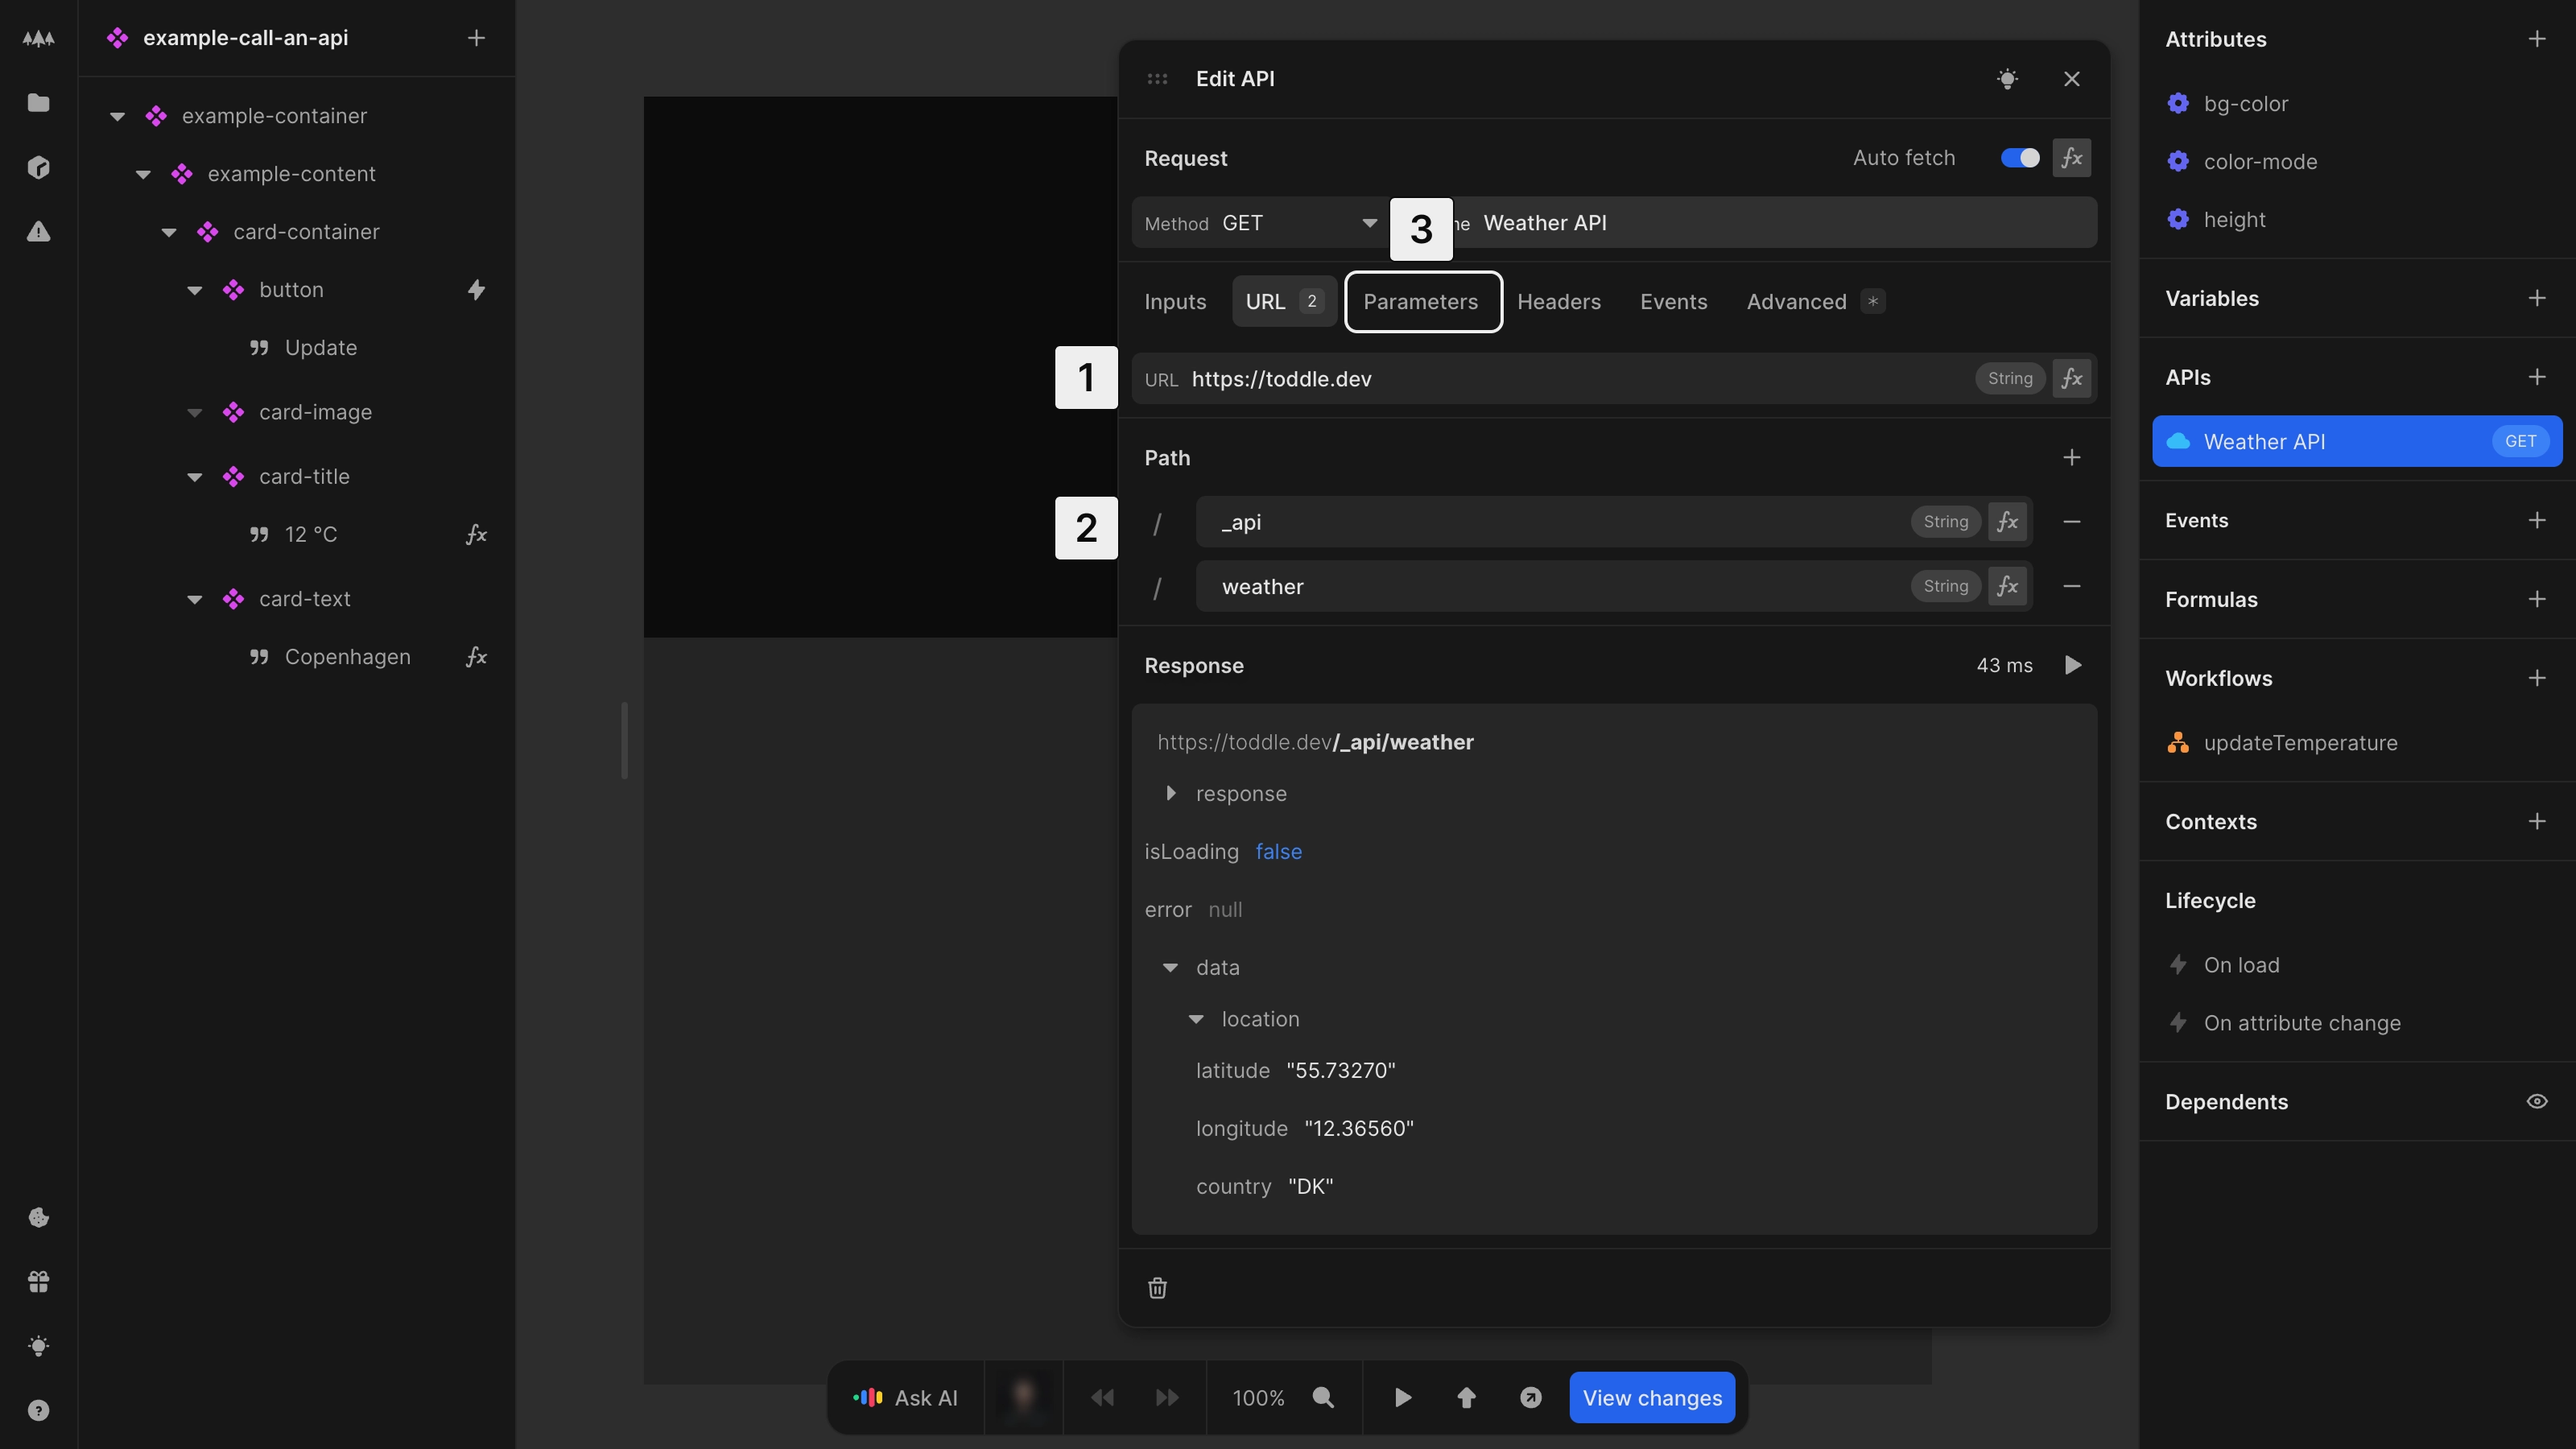
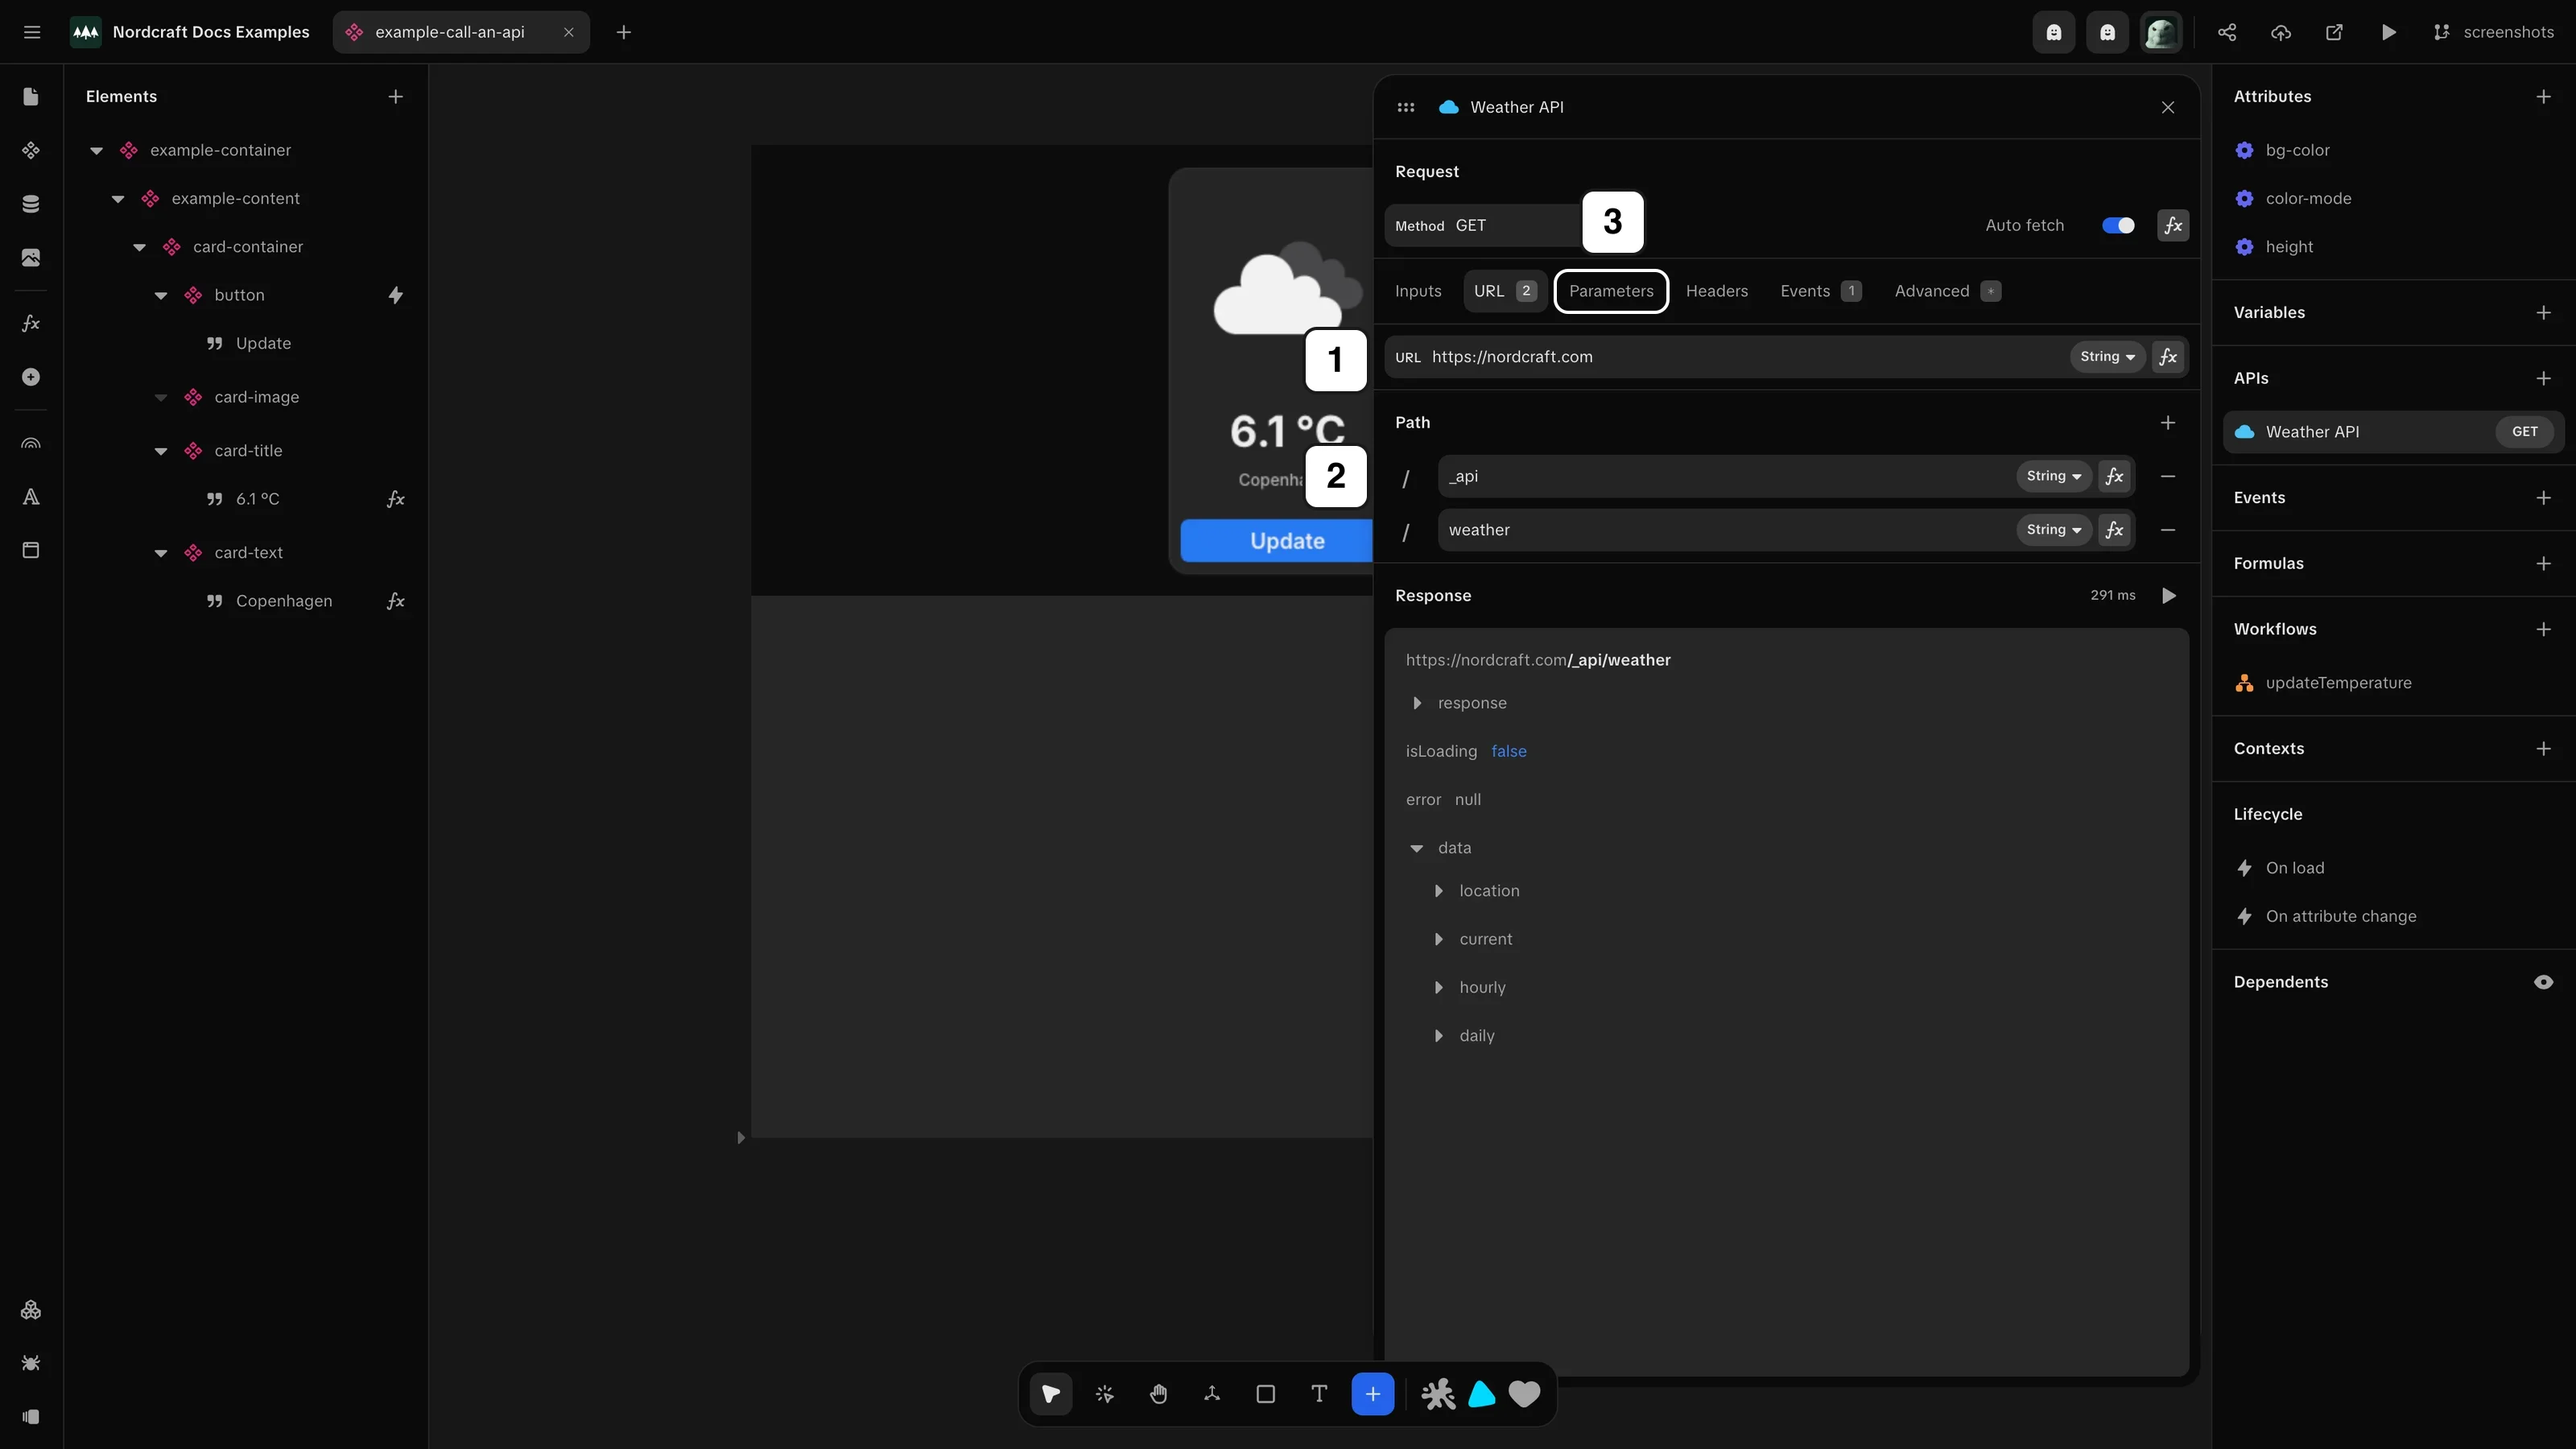
Request url

diff --git a/docs/connecting-data/working-with-apis/configure-a-request-url.screenshot.ts b/docs/connecting-data/working-with-apis/configure-a-request-url.screenshot.ts
@@ -1,0 +1,38 @@
+import { defineScreenshot } from '@/scripts/capture-screenshots'
+import type { Page } from 'playwright'
+
+// Placeholder script for configure-a-request-url.webp
+export default defineScreenshot({
+  path: '/projects/docs_examples/branches/screenshots/components/example-call-an-api?mode=design&canvas-tool=select&canvas-width=800&selection=apis.Weather%2520API&rightpanel=style',
+  setup: async (page: Page) => {
+    await page.waitForTimeout(500)
+  },
+  annotations: [
+    {
+      type: 'badge',
+      x: 405,
+      y: 102,
+      text: '1'
+    },
+    {
+      type: 'badge',
+      x: 405,
+      y: 138,
+      text: '2'
+    },
+    {
+      type: 'badge',
+      x: 491,
+      y: 59,
+      text: '3'
+    },
+    {
+      type: 'box',
+      x: 483,
+      y: 84,
+      width: 35,
+      height: 13,
+      rx: 4
+    }
+  ],
+})
